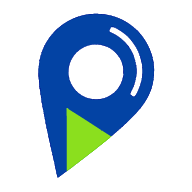
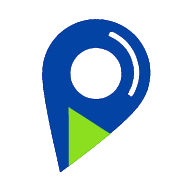
updated

diff --git a/apps/frontend/scripts/generate-pwa-icons.js b/apps/frontend/scripts/generate-pwa-icons.js
@@ -11,7 +11,7 @@ const innerElements = originalSvg
   .replace(/<svg[\s\S]*?>/, '')
   .replace(/<\/svg>/, '');
 
-function createCompositeSvg({ targetSize, paddingRatio = 0.05, backgroundColor = null }) {
+function createCompositeSvg({ targetSize, paddingRatio = 0.08, backgroundColor = '#ffffff' }) {
   const outerWidth = targetSize;
   const outerHeight = targetSize;
   const contentArea = targetSize * (1 - 2 * paddingRatio);
@@ -21,9 +21,7 @@ function createCompositeSvg({ targetSize, paddingRatio = 0.05, backgroundColor =
   const translateX = (outerWidth - 1254 * scale) / 2;
   const translateY = (outerHeight - 1254 * scale) / 2;
 
-  const bgRect = backgroundColor 
-    ? `<rect width="${outerWidth}" height="${outerHeight}" fill="${backgroundColor}"/>` 
-    : '';
+  const bgRect = `<rect width="${outerWidth}" height="${outerHeight}" fill="${backgroundColor}"/>`;
 
   return `<svg version="1.1" xmlns="http://www.w3.org/2000/svg" width="${outerWidth}" height="${outerHeight}" viewBox="0 0 ${outerWidth} ${outerHeight}">
   ${bgRect}
@@ -67,14 +65,14 @@ function createIco(pngBuffers) {
 }
 
 const iconsToGenerate = [
-  { name: 'pwa-192x192.png', size: 192, padding: 0.05, bg: null },
-  { name: 'pwa-512x512.png', size: 512, padding: 0.05, bg: null },
-  { name: 'pwa-64x64.png', size: 64, padding: 0.05, bg: null },
+  { name: 'pwa-192x192.png', size: 192, padding: 0.08, bg: '#ffffff' },
+  { name: 'pwa-512x512.png', size: 512, padding: 0.08, bg: '#ffffff' },
+  { name: 'pwa-64x64.png', size: 64, padding: 0.08, bg: '#ffffff' },
   { name: 'pwa-maskable-192x192.png', size: 192, padding: 0.15, bg: '#ffffff' },
   { name: 'pwa-maskable-512x512.png', size: 512, padding: 0.15, bg: '#ffffff' },
   { name: 'apple-touch-icon.png', size: 180, padding: 0.10, bg: '#ffffff' },
-  { name: 'favicon-32x32.png', size: 32, padding: 0.04, bg: null },
-  { name: 'favicon-16x16.png', size: 16, padding: 0.04, bg: null },
+  { name: 'favicon-32x32.png', size: 32, padding: 0.04, bg: '#ffffff' },
+  { name: 'favicon-16x16.png', size: 16, padding: 0.04, bg: '#ffffff' },
 ];
 
 const generatedPngs = {};
@@ -94,7 +92,7 @@ for (const icon of iconsToGenerate) {
   const destPath = path.join('public', icon.name);
   fs.writeFileSync(destPath, pngBuffer);
   generatedPngs[icon.name] = { width: icon.size, height: icon.size, data: pngBuffer };
-  console.log(`Generated ${icon.name} (${icon.size}x${icon.size})`);
+  console.log(`Generated ${icon.name} (${icon.size}x${icon.size}) with solid background ${icon.bg}`);
 }
 
 // Generate favicon.ico
@@ -103,4 +101,4 @@ const icoBuffer = createIco([
   generatedPngs['favicon-32x32.png']
 ]);
 fs.writeFileSync('public/favicon.ico', icoBuffer);
-console.log('Generated public/favicon.ico');
+console.log('Generated public/favicon.ico with solid background');
